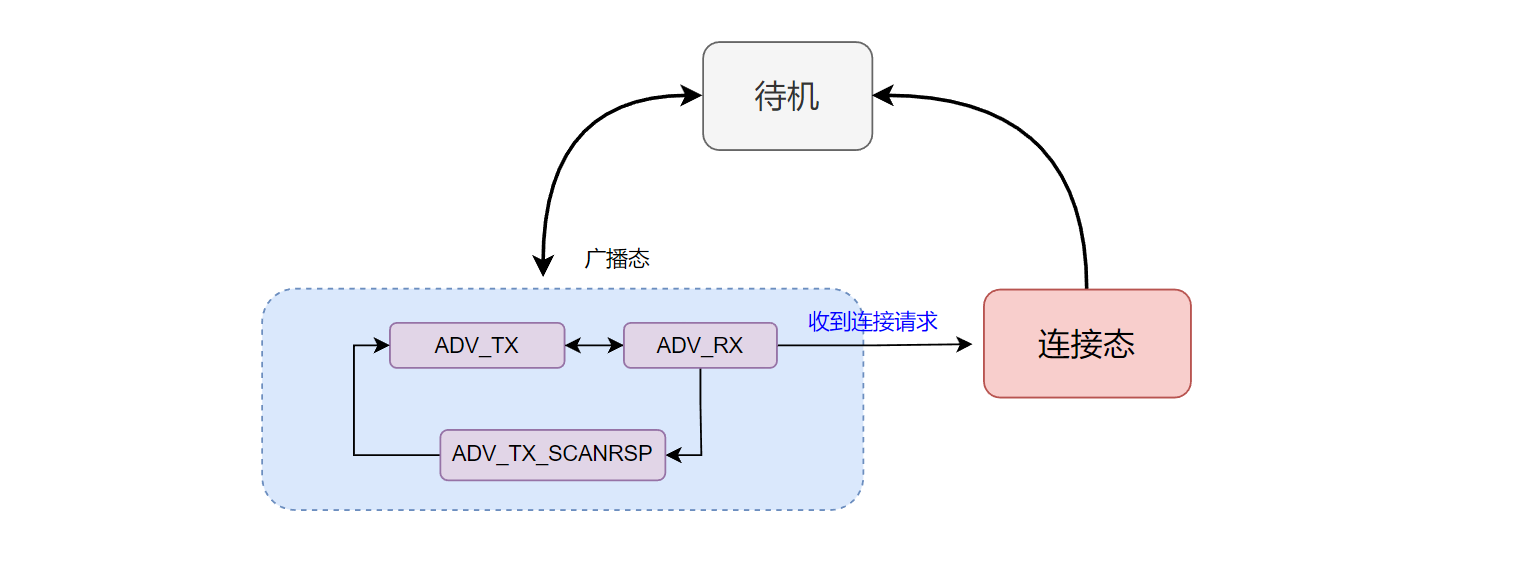
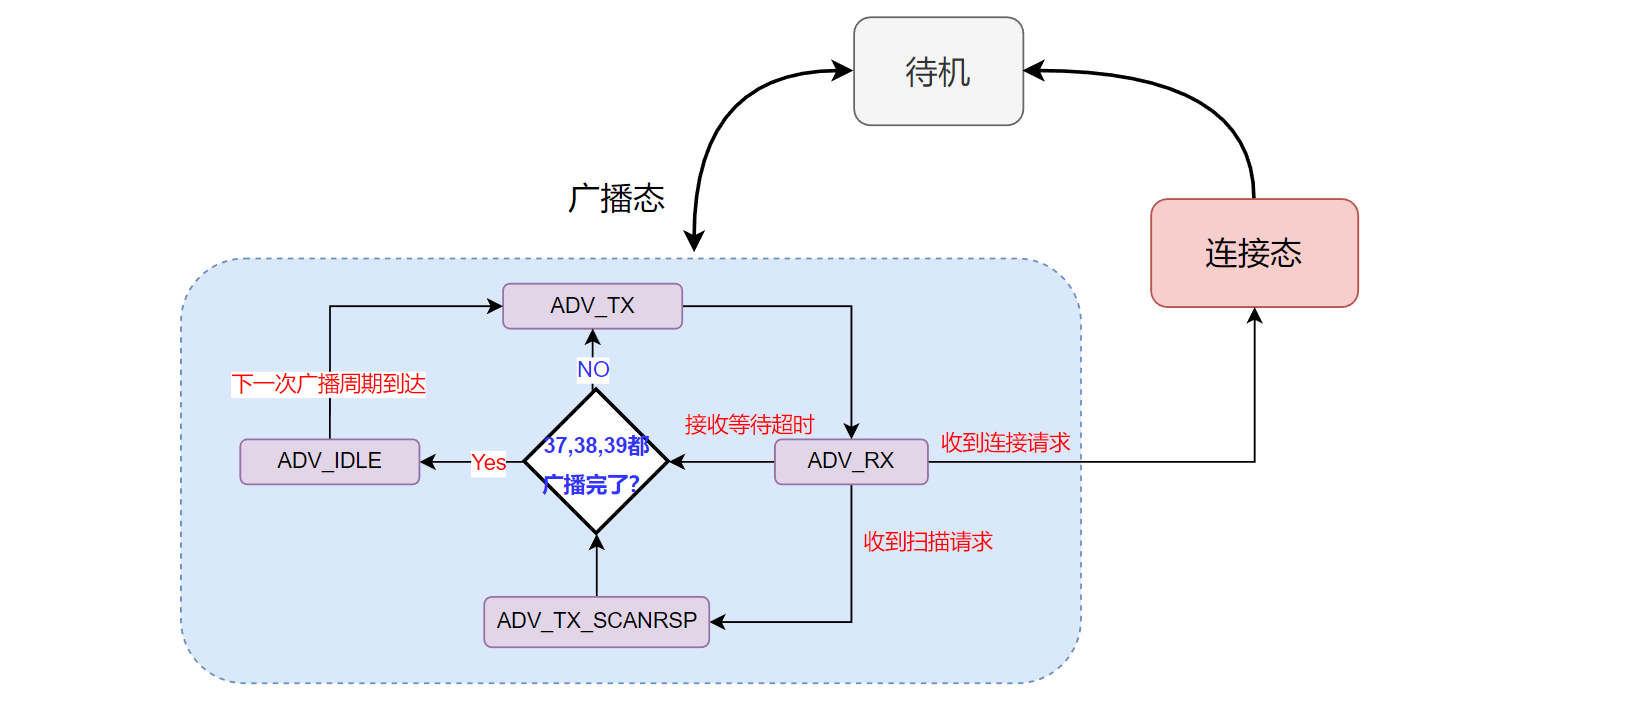
修订文章

diff --git a/source/_posts/BleStack-link-advertising.md b/source/_posts/BleStack-link-advertising.md
@@ -1,6 +1,6 @@
 ---
-title: 实现一个精简的BLE从机协议栈—3—链路层广播状态机实现--待完成
-date: 2023/4/6
+title: 实现一个精简的BLE从机协议栈—3—链路层广播状态机实现--更新中
+date: 2023/4/24
 categories: 
 - BLE协议栈
 ---
@@ -50,6 +50,7 @@ categories:
 通常`MCU`的`radio`外设，其内部含有一个状态寄存器，来指示当前`radio`是处于什么状态（如发送状态、接收状态等），为了尽量减少对硬件的依赖，我们不使用这种状态寄存器，而是在底层自己维护状态。
 
 我们只使用`radio`外设的`DISABLED`中断事件，至于`radio`是发送完后被关闭的，还是接收完后被关闭的，由我们自己实现的状态机来记录。
+`PS：这里使用DISABLED中断事件的考虑是，早期MCU射频（nrf51822）发送结束后，必需先关闭，才能再控制进入接收状态。而当前更好的MCU（nrf2840）的射频部分，发送结束后，可以直接控制进行接收，而不用先关闭。 不关闭，直接进行发送/接收状态的相互转换肯定效率更高，不过为了更具一般性，我们还是考虑使用：发送->关闭->接收->关闭->发送....这种收/发的切换模式。由于`BLE`规定的空中数据包之间的间隔为150us，这个时间足够硬件进行这种状态的转变。`
 
 因此，从我们目前讨论到的简单情况来看，我们至少要在链路层中维持两个状态：广播态（advertising）、连接态（connection）。
 
@@ -84,14 +85,19 @@ void LinkRadioEvtHandler(EnBleRadioEvt evt)
  2. 某个通道广播后，监听到了一个扫描请求：则设备回复扫描响应数据，之后继续在下一个广播通道上继续广播。如右下图所示。
  3. 某个通道广播之后，监听到了一个连接请求：则设备开始进入连接态，并等待连接建立（收到连接态下的第一个数据包）
 
+
 根据上述情形，在代码实现上我们，需要考虑：
- 1. 设备启动并开始广播后，首先应该进入广播—发送状态（ADV_TX）
- 2. 收到完成事件（发送）后，应该进入广播—接收状态（ADV_RX），并启动接收等待超时定时器（按规范定义，如果对方有数据包，应该在150us的样子，就会发过来）
+ 1. 设备启动并开始广播后，首先应该进入广播—发送状态（**ADV_TX**）
+ 2. 收到完成事件（发送）后，应该进入广播—接收状态（**ADV_RX**），并启动接收等待超时定时器（按规范定义，如果对方有数据包，应该在150us的样子，就会发过来）
    2.1 超时前，收到连接请求时，进入连接态，执行连接建立相关过程（本文不涉及）
-   2.2 超时前，收到扫描请求时，进入广播—发送扫描相应状态（ADV_TX_SCANRSP）
-    - 当扫描响应数据发送完成后，需要再在下一个通道上继续广播，因此会再次进入广播—发送状态（ADV_TX）
+   2.2 超时前，收到扫描请求时，进入广播—发送扫描相应状态（**ADV_TX_SCANRSP**）
+    - 当扫描响应数据发送完成后，需要再在下一个通道上继续广播，因此会再次进入广播—发送状态（**ADV_TX**）
      
-    2.3 接收等待超时了，则切换到下一个通道继续广播，因此会再次进入广播—发送状态（ADV_TX）
+    2.3 接收等待超时了（没有收到扫描请求，也没有收到连接请求），则切换到下一个通道继续广播，因此会再次进入广播—发送状态（**ADV_TX**）
+
+上述描述的都是，广播间隔到了后，我们需要执行的动作。但设备绝大部分时间都是空闲的，不发送数据也没有接收数据。因此，我们还需要一个广播空闲（**ADV_IDLE**）状态。如下图所示：
+![](./BleStack-link-advertising/adv_idle.png)
+
 
 概括下来，可以用下图所示的状态机来表示：
 ![](./BleStack-link-advertising/adv-states.png)
